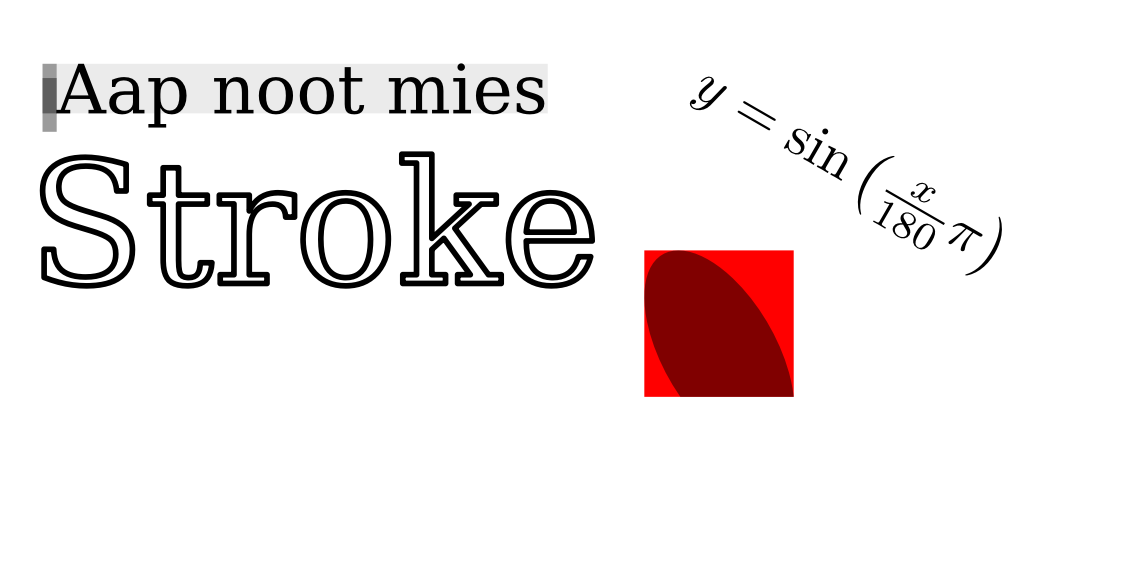
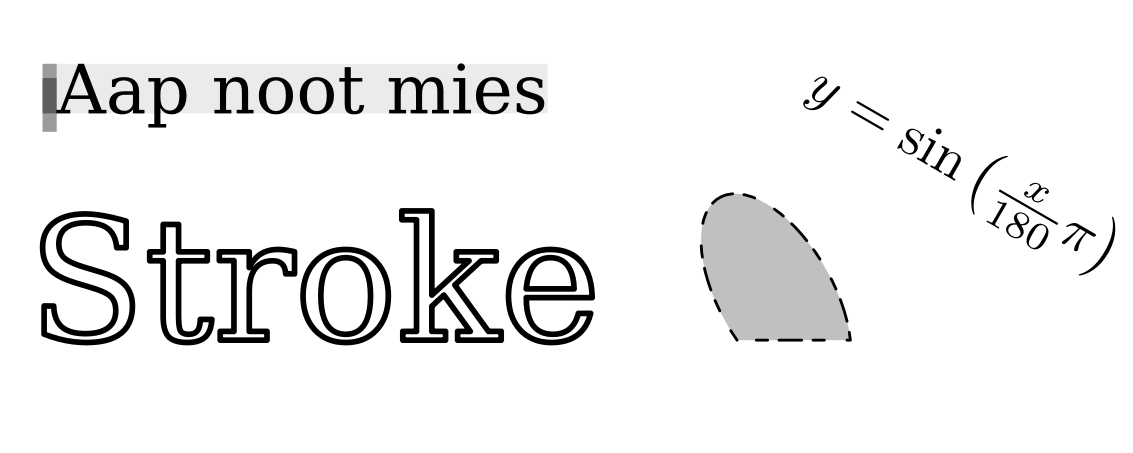
Add quadraticBezierLength, improve stepsize for flattenEllipse

diff --git a/path_util.go b/path_util.go
@@ -248,10 +248,11 @@ func flattenEllipse(start Point, rx, ry, phi float64, largeArc, sweep bool, end 
 	cx, cy, theta1, theta2 := ellipseToCenter(start.X, start.Y, rx, ry, phi, largeArc, sweep, end.X, end.Y)
 
 	// TODO: improve: use dynamic step size and tolerance
-	const n = 32
+	const nFull = 64 // points per full ellipse
+	n := int(math.Abs(theta2-theta1) / 2.0 / math.Pi * nFull)
 	sinphi, cosphi := math.Sincos(phi)
 	for i := 0; i < n; i++ {
-		t := float64(i+1) / n
+		t := float64(i+1) / float64(n)
 		sina, cosa := math.Sincos(theta1 + (theta2-theta1)*t)
 		xt := cx + rx*cosa*cosphi - ry*sina*sinphi
 		yt := cy + rx*cosa*sinphi + ry*sina*cosphi
@@ -268,6 +269,22 @@ func quadraticToCubicBezier(start, c, end Point) (Point, Point) {
 	c1 := start.Interpolate(c, 2.0/3.0)
 	c2 := end.Interpolate(c, 2.0/3.0)
 	return c1, c2
+}
+
+// see https://malczak.linuxpl.com/blog/quadratic-bezier-curve-length/
+func quadraticBezierLength(p0, p1, p2 Point) float64 {
+	a := p0.Sub(p1.Mul(2.0)).Add(p2)
+	b := p1.Mul(2.0).Sub(p0.Mul(2.0))
+	A := 4.0 * a.Dot(a)
+	B := 4.0 * a.Dot(b)
+	C := b.Dot(b)
+
+	Sabc := 2.0 * math.Sqrt(A+B+C)
+	A_2 := math.Sqrt(A)
+	A_32 := 2.0 * A * A_2
+	C_2 := 2.0 * math.Sqrt(C)
+	BA := B / A_2
+	return (A_32*Sabc + A_2*B*(Sabc-C_2) + (4.0*C*A-B*B)*math.Log((2.0*A_2+BA+Sabc)/(BA+C_2))) / (4.0 * A_32)
 }
 
 func cubicBezierSpeedAt(p0, p1, p2, p3 Point, t float64) float64 {

diff --git a/example/example.go b/example/example.go
@@ -98,14 +98,14 @@ func drawText(c *canvas.C, x, y float64, size float64, text string) {
 }
 
 func Draw(c *canvas.C) {
-	c.Open(200, 100)
+	c.Open(200, 80)
 
-	drawText(c, 10, 80, 12.0, "Aap noot mies")
+	drawText(c, 10, 60, 12.0, "Aap noot mies")
 
 	face := dejaVuSerif.Face(30)
 	c.SetFont(face)
 	p := face.ToPath("Stroke")
-	c.DrawPath(5, 50, p.Stroke(1, canvas.RoundCapper, canvas.RoundJoiner))
+	c.DrawPath(5, 20, p.Stroke(1, canvas.RoundCapper, canvas.RoundJoiner))
 
 	latex, err := canvas.ParseLaTeX(`$y = \sin\left(\frac{x}{180}\pi\right)$`)
 	if err != nil {
@@ -113,16 +113,15 @@ func Draw(c *canvas.C) {
 	}
 	latex.Rotate(-30, 0, 0)
 	c.SetColor(canvas.Black)
-	c.DrawPath(120, 80, latex)
+	c.DrawPath(140, 60, latex)
 
 	ellipse, err := canvas.ParseSVG(fmt.Sprintf("A10 20 30 1 0 20 0z"))
-	//ellipse.Scale(1.0, -1.0)
 	if err != nil {
 		panic(err)
 	}
-	c.SetColor(canvas.Red)
-	c.DrawPath(120, 30, ellipse.Bounds().ToPath().Rotate(30, 0, 0))
-	//ellipse = ellipse. /*Dash(0.8, 1.2, 0.8).*/ Stroke(0.3, canvas.RoundCapper, canvas.BevelJoiner)
-	c.SetColor(canvas.BlackTransparent)
-	c.DrawPath(120, 30, ellipse.Rotate(30, 0, 0))
+	c.SetColor(canvas.LightGrey)
+	c.DrawPath(130, 20, ellipse)
+	ellipse = ellipse.Dash(2.0, 4.0, 2.0).Stroke(0.5, canvas.RoundCapper, canvas.RoundJoiner)
+	c.SetColor(canvas.Black)
+	c.DrawPath(130, 20, ellipse)
 }

diff --git a/canvas.go b/canvas.go
@@ -20,15 +20,17 @@ const InchPerMm = 1 / 25.4
 
 var (
 	Black            color.Color = color.RGBA{0, 0, 0, 255}
-	White            color.Color = color.RGBA{0, 0, 0, 255}
+	DarkGrey         color.Color = color.RGBA{64, 64, 64, 255}
 	Grey             color.Color = color.RGBA{128, 128, 128, 255}
+	LightGrey        color.Color = color.RGBA{192, 192, 192, 255}
+	White            color.Color = color.RGBA{0, 0, 0, 255}
 	Red              color.Color = color.RGBA{255, 0, 0, 255}
 	Lime             color.Color = color.RGBA{0, 255, 0, 255}
 	Blue             color.Color = color.RGBA{0, 0, 255, 255}
 	Yellow           color.Color = color.RGBA{255, 255, 0, 255}
 	Magenta          color.Color = color.RGBA{255, 0, 255, 255}
 	Cyan             color.Color = color.RGBA{0, 255, 255, 255}
-	BlackTransparent color.Color = color.RGBA{0, 0, 0, 127}
+	BlackTransparent color.Color = color.RGBA{0, 0, 0, 128}
 )
 
 func writeCSSColor(w io.Writer, c color.Color) {

diff --git a/path_test.go b/path_test.go
@@ -110,25 +110,6 @@ func TestPathLength(t *testing.T) {
 	}
 }
 
-//func TestCubicBezierLength(t *testing.T) {
-//	p0 := Point{0.0, 0.0}
-//	p1 := Point{0.0, 66.67}
-//	p2 := Point{100.0, 66.67}
-//	p3 := Point{100.0, 0.0}
-//	S := cubicBezierLengthFunc(p0, p1, p2, p3)
-//	T := cubicBezierInverseLengthFunc(p0, p1, p2, p3)
-//	for _, x := range []float64{0.0, 0.5, 1.0} {
-//		s := S(x)
-//		xx := T(s)
-//		if math.Abs(x-xx) > 0.1 {
-//			test.Fail(t, x, "!=", xx)
-//		}
-//	}
-//}
-//
-//func TestEllipseLength(t *testing.T) {
-//}
-
 func TestPathSplit(t *testing.T) {
 	var tts = []struct {
 		orig  string

diff --git a/path.go b/path.go
@@ -411,8 +411,7 @@ func (p *Path) Length() float64 {
 		case QuadToCmd:
 			c := Point{p.d[i+1], p.d[i+2]}
 			end = Point{p.d[i+3], p.d[i+4]}
-			c1, c2 := quadraticToCubicBezier(start, c, end)
-			d += cubicBezierLength(start, c1, c2, end)
+			d += quadraticBezierLength(start, c, end)
 		case CubeToCmd:
 			c1 := Point{p.d[i+1], p.d[i+2]}
 			c2 := Point{p.d[i+3], p.d[i+4]}
